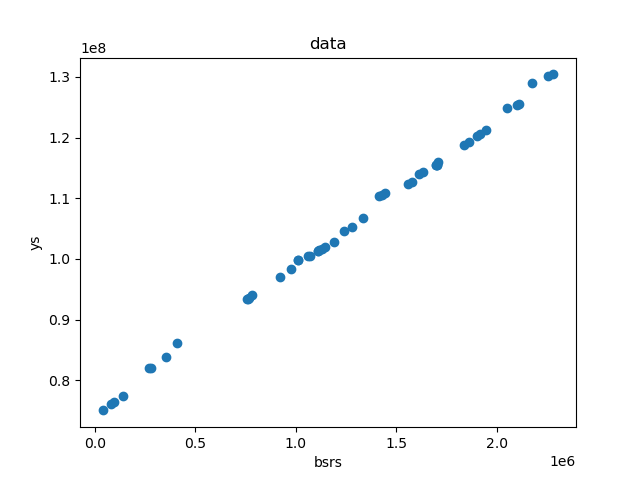
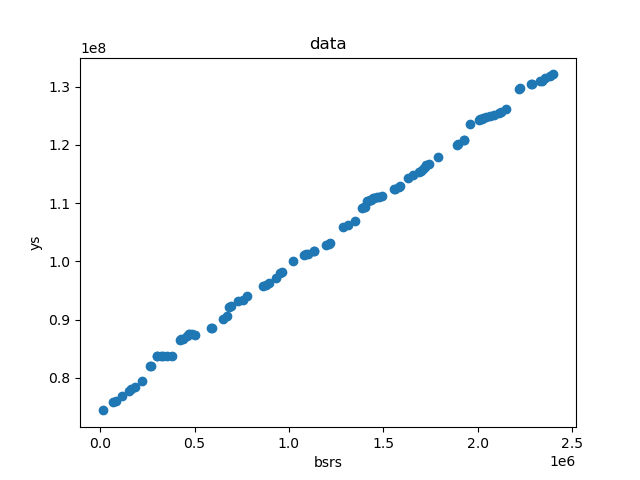
sava experiments

diff --git a/results/diagrams/memory_breakdown_comparison_lora_qv_rank_45.tex b/results/diagrams/memory_breakdown_comparison_lora_qv_rank_45.tex
@@ -1,0 +1,36 @@
+% batch size: 32
+\begin{table}[htbp]  % 'htbp' allows flexible placement: here, top, bottom, or page
+
+\centering
+
+\caption{Memory Breakdown Comparison Table}
+
+\begin{tabular}{lrrr}
+
+\toprule
+Component & Estimated (MB) & Profiled (MB) & Error (\%) \\
+
+\midrule
+Parameters      &    87.28  & 87.28 (4.61%)        &   0.00 \\
+Activations     &  1725.04  & 1706.12 (90.16%)     &   1.11 \\
+Optimizer States &     3.16  & 3.16 (0.17%)         &   0.00 \\
+Total Peak      &     6.33  & 6.33 (0.33%)         &   0.00 \\
+
+\bottomrule
+\end{tabular}
+\end{table}
+
+mem = 2.2GB
+rank = 45
+beta_profiling_run = 100
+================================================================================
+MEMORY BREAKDOWN COMPARISON TABLE
+================================================================================
+       Component Estimated (MB)     Profiled (MB) Error (%)
+      Parameters          87.28     87.28 (4.61%)      0.00
+    Forward Pass        1725.04  1706.12 (90.16%)      1.11
+       Gradients           3.16      3.16 (0.17%)      0.00
+Optimizer States           6.33      6.33 (0.33%)      0.00
+        Overhead          91.82     89.48 (4.73%)      2.62
+      Total Peak        1821.81 1892.37 (100.00%)      3.73
+================================================================================      

diff --git a/utils/memory_tracker.py b/utils/memory_tracker.py
@@ -496,7 +496,7 @@ class MemoryTracker:
         r1 = int(H / 2)
         r2 = int(H / 3)
 
-        run = 50 # at least 2
+        run = 100 # at least 2
         device = torch.device('cuda' if torch.cuda.is_available() else 'cpu')
         fwd_key= 'avg_profiled_fwd'
         # generate random r values
@@ -530,12 +530,12 @@ class MemoryTracker:
         beta1, beta2 = beta_vector
 
         # plot the data
-        plt.scatter(bsrs, ys)
-        plt.xlabel('bsrs')
-        plt.ylabel('ys')
-        plt.title('data')
-        plt.show()
-        plt.savefig('data.png')
+        # plt.scatter(bsrs, ys)
+        # plt.xlabel('bsrs')
+        # plt.ylabel('ys')
+        # plt.title('data')
+        # plt.show()
+        # plt.savefig('data.png')
 
         
 

diff --git a/results/diagrams/memory_breakdown_comparison_lora_qv_rank_384.tex b/results/diagrams/memory_breakdown_comparison_lora_qv_rank_384.tex
@@ -20,7 +20,7 @@ Total Peak      &    54.00  & 54.00 (2.51%)        &   0.00 \\
 \end{tabular}
 \end{table}
 
-
+mem = 8 GB
 rank = 384
 beta_profiling_run = 50
 ================================================================================
@@ -33,3 +33,5 @@ MEMORY BREAKDOWN COMPARISON TABLE
 Optimizer States          54.00     54.00 (2.51%)      0.00
         Overhead          91.82     65.64 (3.06%)     39.88
       Total Peak        2311.01 2148.10 (100.00%)      7.58
+
+

diff --git a/tests/test_estimator.py b/tests/test_estimator.py
@@ -164,6 +164,7 @@ class TestRankEstimator(unittest.TestCase):
 
     def test_memory_breakdown_comparison_table_qv(self):
         args = self._init_args()
+        args.gpu_memory_size_for_each_group_in_GB = [2.2]
         args.lora_target_modules = ['query', 'value']
         
         # Load base model
